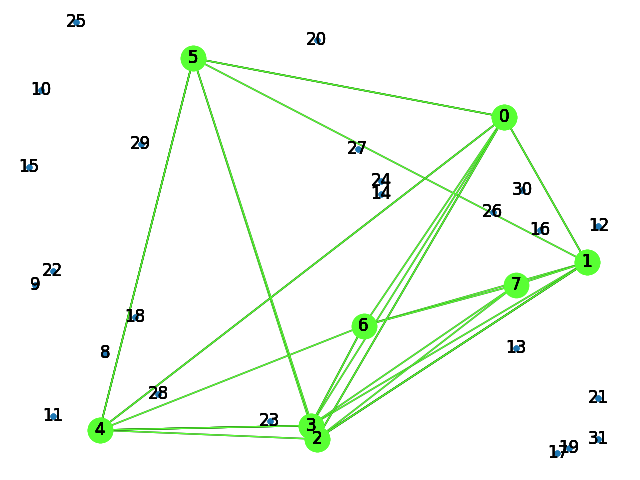
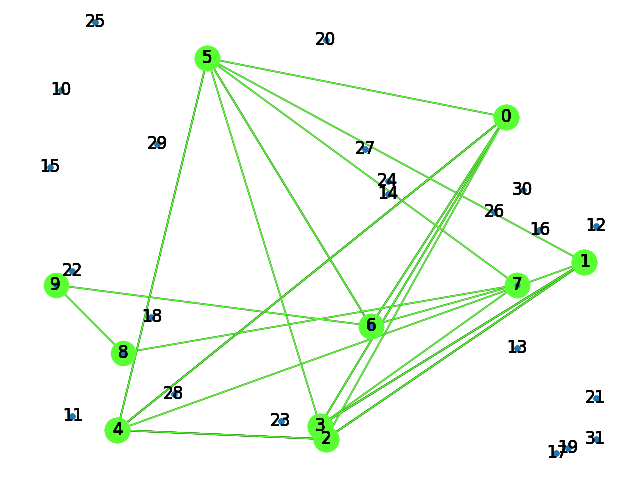
played around and modularized few processes

diff --git a/fcm.py b/fcm.py
@@ -1,0 +1,116 @@
+import numpy as np
+import matplotlib.pyplot as plt
+import cvrplib
+
+import skfuzzy as fuzz
+
+instance, solution = cvrplib.download('A-n32-k5',solution=True)
+distances = [distance for distance in instance.distances]
+trucks = instance.name.partition("k")[2]
+
+# Set the maximum sum of cluster points
+capacity = instance.capacity
+coords_original = [coordinates for coordinates in instance.coordinates]
+depot = instance.coordinates[0]
+demands = [demand for demand in instance.demands]
+
+# Define the number of clusters
+n_clusters = int(trucks)
+for i in range(n_clusters - 1):
+  coords_original.insert(0, depot)
+
+coords = np.array(coords_original)
+def demand_constraint(labels, coords, demands, capacity):
+    for i in np.unique(labels):
+        if np.sum(demands[i]) > capacity:
+            return False
+    return True
+
+cntr, u, u0, d, jm, p, fpc = fuzz.cluster.cmeans(
+    coords.T, n_clusters, 2, error=0.005, maxiter=1000, init=None
+)
+ 
+# Predict cluster membership for each data point
+cluster_membership = np.argmax(u, axis=0)
+ 
+# Print the cluster centers
+print('Cluster Centers:', cntr)
+ 
+# Print the cluster membership for each data point
+print('Cluster Membership:', cluster_membership)
+
+u_depot = np.array(u[ : , n_clusters : ])
+
+preferences = []
+
+# Cluster assignment
+cluster_assignment = {}
+node_assignment = [None] * u_depot.shape[1]
+
+for cluster in range(n_clusters):
+  cluster_assignment[cluster] = {}
+  cluster_assignment[cluster]['capacity'] = capacity
+  cluster_assignment[cluster]['nodes'] = []
+for node in u_depot.T:
+  preferences.append(list(enumerate(node)))
+
+preferences = list(enumerate(preferences, 1))
+
+def node_assign(preferences):
+  highest_preference = []
+  for node in preferences:
+    h_p = max(node[1], key = lambda i : i[1])
+    highest_preference.append((node[0], h_p))
+
+    node[1].remove(h_p)
+    # new_preferences.append(node)
+
+  highest_preference[0]
+  cluster_with_highest_preference = []
+
+  for i in range(n_clusters):
+    cluster_with_highest_preference.append([])
+
+  for i in range(len(highest_preference)):
+    node = highest_preference[i][0]
+    h_p = highest_preference[i][1]
+    cluster, preference = h_p
+    cluster_with_highest_preference[cluster].append((node, preference))
+  cluster_with_highest_preference
+  sorted_cluster_with_highest_preference = []
+
+  for row in cluster_with_highest_preference:
+    sorted_cluster_with_highest_preference.append(sorted(row, key = lambda i: i[1], reverse = True))
+  sorted_cluster_with_highest_preference[3]
+  assigned_nodes = []
+
+  for cluster in range(n_clusters):
+    assignment_preference = sorted_cluster_with_highest_preference[cluster]
+
+    for preference in assignment_preference:
+      node = preference[0]
+      demand = demands[node]
+      capacity = cluster_assignment[cluster]['capacity']
+
+      if cluster_assignment[cluster]['capacity'] > demand:
+        cluster_assignment[cluster]['capacity'] = capacity - demand
+        cluster_assignment[cluster]['nodes'].append(node)
+
+        node_assignment[node - 1] = cluster
+        assigned_nodes.append(node)
+
+  nodes = [node for node, _ in preferences]
+
+  new_preferences = [preference for preference in preferences if preference[0] not in assigned_nodes]
+  preferences = new_preferences
+  if len(new_preferences)!=0:
+    node_assign(preferences)
+  sum = 0
+
+  for cluster in cluster_assignment.items():
+    sum = sum + len(cluster[1]['nodes'])
+    print(cluster)
+
+  return cluster_assignment
+
+print(node_assign(preferences))

diff --git a/get_graph.py b/get_graph.py
@@ -1,0 +1,115 @@
+import cvrplib
+import numpy as np
+from dimod import ConstrainedQuadraticModel, Binary, Integer
+from dimod import quicksum
+from dwave.system import LeapHybridCQMSampler
+from itertools import chain, combinations
+
+import time
+import random
+import cvrplib
+
+import networkx as nx
+import matplotlib.pyplot as plt
+
+instance, solution = cvrplib.download('A-n32-k5',solution=True)
+
+paths = [
+    [ #6
+        (0, 14),
+        (24, 27),
+        (27, 20),
+        (14, 24),
+        (20, 0)
+    ], 
+    [ #9
+        (0, 7),
+        (19, 31),
+        (31, 21),
+        (17, 19),
+        (21, 0),
+        (13, 17),
+        (7, 13)
+    ], 
+    [ #8
+        (0, 8),
+        (4, 28),
+        (11, 4),
+        (28, 23),
+        (8, 11),
+        (3, 2),
+        (2, 0),
+        (23, 3)
+    ], 
+    [ #8
+        (0, 5),
+        (10, 15),
+        (25, 10),
+        (5, 25),
+        (29, 22),
+        (15, 29),
+        (6, 0),
+        (22, 9),
+        (9, 18),
+        (18, 6)
+    ],
+    [
+        (0, 12),
+        (16, 26),
+        (12, 1),
+        (1, 16),
+        (30, 0),
+        (26, 30)
+    ]
+    # , 
+    # [ #9
+    #     (0, 5),
+    #     (14, 29),
+    #     (17, 28),
+    #     (29, 1),
+    #     (28, 14),
+    #     (1, 0),
+    #     (5, 15),
+    #     (10, 17),
+    #     (15, 10)
+    # ]
+    # ,
+    # [ #8
+    #     (0, 4),
+    #     (27, 19),
+    #     (38, 27),
+    #     (19, 26),
+    #     (39, 38),
+    #     (26, 23),
+    #     (4, 39),
+    #     (23, 0)
+    # ]
+]
+
+colors = [ "#58FF33", "#CD6155", "#DAF7A6", "#FFC300", "#A569BD", "#5499C7", "#45B39D", "#6E2C00", "#FF33D1", "#FFFFFF", "#000000", "#33FFAF", "#33FFE0", "#FF3333"]
+
+def get_sub_nodes(lis):
+    i = lis[0]
+    for t in lis[1:]:
+        i+=t
+    return list(i)
+
+
+G = nx.Graph()
+for i in range(len(instance.coordinates)):
+    G.add_node(i,pos=tuple(instance.coordinates[i]))
+for l in paths:
+    G.add_edges_from(l)
+
+nx.draw(G, nx.get_node_attributes(G, 'pos'), with_labels=True, node_size=10)
+
+for l in range(len(paths)):
+    k = G.subgraph(get_sub_nodes(paths[l]))
+    nx.draw_networkx(k, nx.get_node_attributes(G, 'pos'), with_labels=True, edge_color=colors[l], node_color=colors[l])
+plt.savefig("finall", bbox_inches=None)
+
+
+# # for l in range(len(paths)):
+# #     k = G.subgraph(get_sub_nodes(paths[l]))
+# #     nx.draw_networkx(k, pos, with_labels=True, edge_color=colors[l], node_color=colors[l])
+# plt.savefig("final", bbox_inches=None)

diff --git a/final.py b/final.py
@@ -1,18 +1,33 @@
 from CVRP import TSP 
 from extend_csv import *
 
+
 sample = {
-    0: {'capacity': 29, 'nodes': [10, 25, 29, 5, 15, 20]},
-    1: {'capacity': 53, 'nodes': [3, 23, 2, 6]},
-    2: {'capacity': 20, 'nodes': [21, 31, 19, 17, 13]},
-    3: {'capacity': 2, 'nodes': [30, 26, 16, 24, 14, 12, 7]},
-    4: {'capacity': 25, 'nodes': [8, 18, 11, 9, 22, 4, 28]}
+    0: {'capacity': 9, 'nodes': [ 24, 27, 14, 20 ]},
+    1: {'capacity': 25, 'nodes': [ 19, 31, 17, 21, 13, 7 ]},
+    2: {'capacity': 1, 'nodes': [4, 11, 28, 8, 3, 2, 23 ]},
+    3: {'capacity': 2, 'nodes': [10, 25, 5, 29, 15, 6,  22,9,18 ]},
+    4: {'capacity': 53, 'nodes': [16, 12, 1, 30, 26]}
 }
 
-# make_csv(sample)
+make_csv(sample)
 data = read_csv('edges.csv')
 total_cost=0
+
+paths = []
+
 for i in range(len(data)):
-    total_cost+=TSP(data[i])
+    solution = TSP(data[i])
+    total_cost+= solution[0]
+    paths.append(solution[1])
+
 print('Total Quantum Cost =',total_cost)
+
+file1 = open("paths.txt","w")
+
+for p in paths:
+    file1.write('\n'.join(f'{tup[0]} {tup[1]}' for tup in p))
+    file1.write("\n")
+    file1.write("#################")
+
 

diff --git a/CVRP.py b/CVRP.py
@@ -117,7 +117,7 @@ def TSP(node_list):
     # print(t)
 
     def get_token():
-        return 'DEV-aebcf2c04ae04915bed9daec214aa5e7525731b4'
+        return 'DEV-adbfc9b57e1c217a9653d805d1ac090a178ae2ad'
 
 
 
@@ -146,6 +146,9 @@ def TSP(node_list):
     paths = []
 
     total_cost=0
+
+    for_graph = []
+
     for i in range(p):
         current_route=routes[i]
         current_cost=0
@@ -159,6 +162,7 @@ def TSP(node_list):
             t.append(node_list[int(r[0])]) 
             t.append(node_list[int(r[1])])
             print(t)
+            for_graph.append(t)
             temp.append(tuple(r))
         print("\nTruck",i,"cost:",current_cost)
         total_cost+=current_cost
@@ -181,4 +185,4 @@ def TSP(node_list):
 
     print("\nClassical Solution Route\t",solution.routes)
     print("\nClassical Solution Total cost:\t",solution.cost)
-    return total_cost
+    return (total_cost,for_graph)

diff --git a/extend_csv.py b/extend_csv.py
@@ -2,11 +2,11 @@ import csv
 import pandas as pd
 
 def prepare_tsp_input(dictionary):
-    nodes = {}
+    nodes = []
     for i in dictionary.values():
         n = i.get("nodes")
         n.insert(0,0)
-        nodes[i.get("capacity")] = n
+        nodes.append((i.get("capacity"),n))
     
     return nodes
 
@@ -14,8 +14,8 @@ def make_csv(data):
     with open('edges.csv', 'w', newline='') as file:
         writer = csv.writer(file)
         clusters = prepare_tsp_input(data)
-        for key, value in clusters.items():
-            row = (key, ','.join(str(x) for x in value))
+        for cl in clusters:
+            row = (cl[0], ','.join(str(x) for x in cl[1]))
             writer.writerow(row)
 
 def read_csv(file_name):
